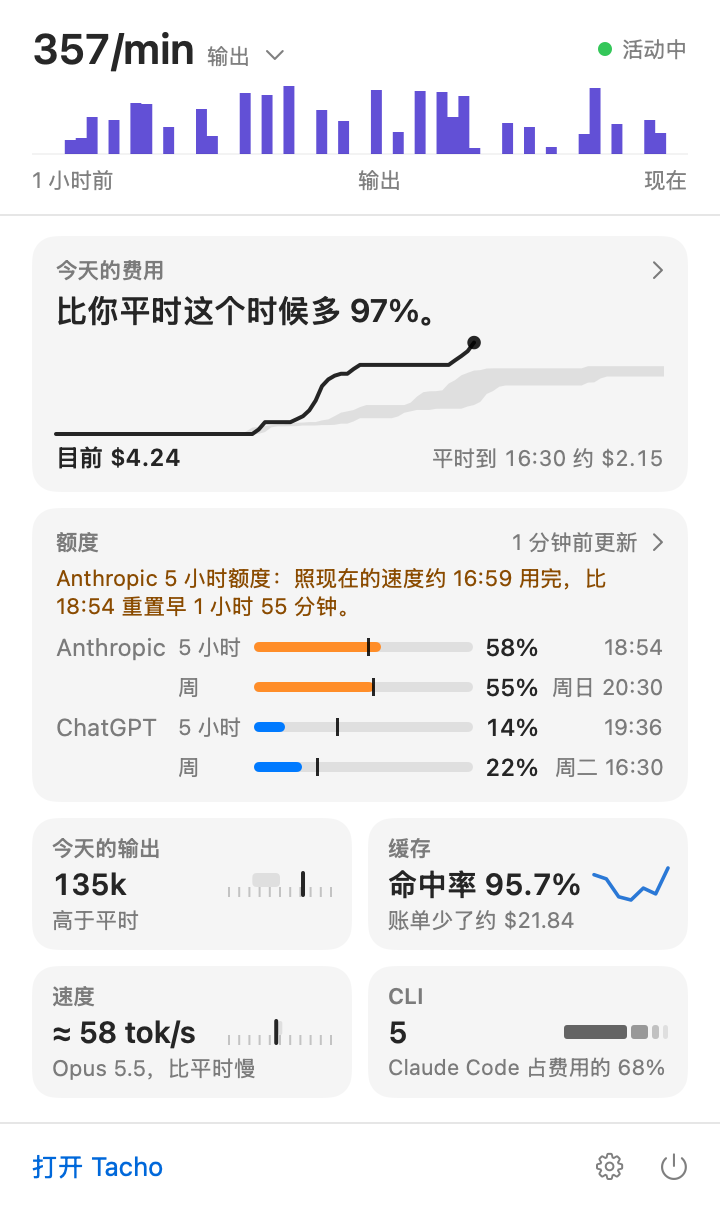
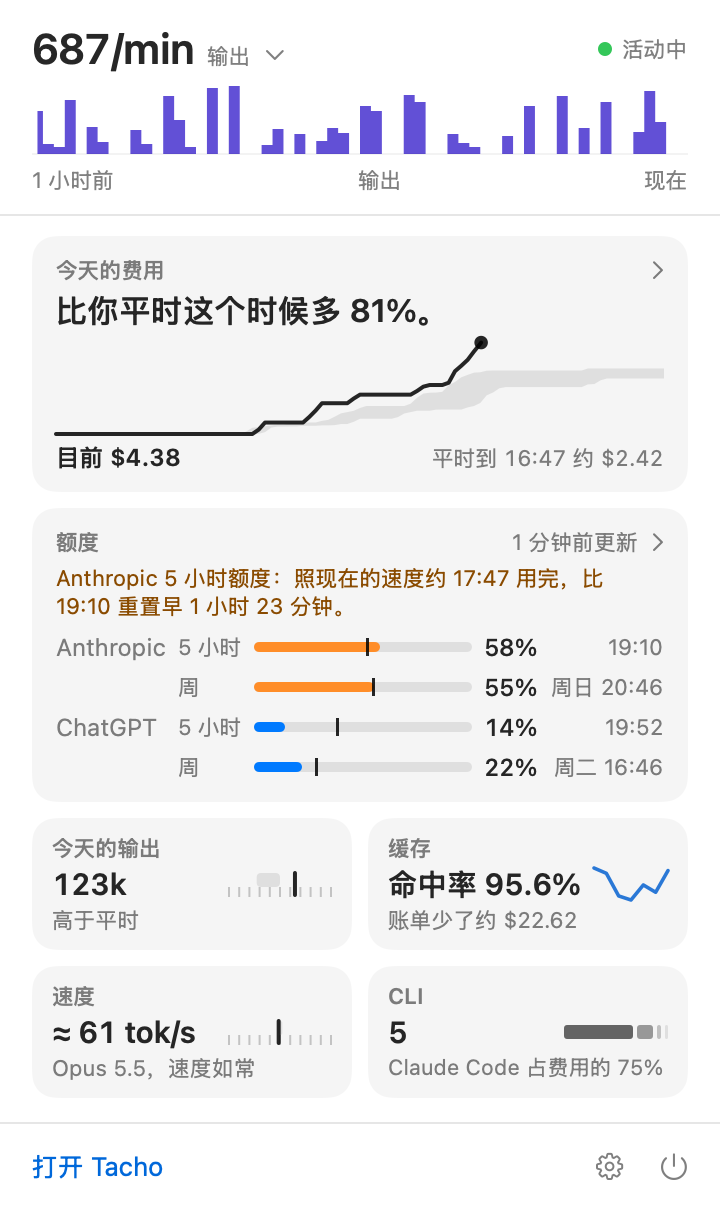
README images on white, for a dark theme

diff --git a/Tests/TachoTests/ReadmeScreenshots.swift b/Tests/TachoTests/ReadmeScreenshots.swift
@@ -276,10 +276,24 @@ final class ReadmeScreenshots: XCTestCase {
         return Double(inked) / Double(max(sampled, 1))
     }
 
+    /// `image` on white with no alpha. The panel draws on a see-through material, and a README in a dark theme would show black behind its dark text.
+    private func onWhite(_ image: NSBitmapImageRep) throws -> NSBitmapImageRep {
+        let source = try XCTUnwrap(image.cgImage)
+        let context = try XCTUnwrap(CGContext(
+            data: nil, width: source.width, height: source.height, bitsPerComponent: 8, bytesPerRow: 0,
+            space: try XCTUnwrap(source.colorSpace), bitmapInfo: CGImageAlphaInfo.noneSkipLast.rawValue
+        ))
+        let area = CGRect(x: 0, y: 0, width: source.width, height: source.height)
+        context.setFillColor(CGColor.white)
+        context.fill(area)
+        context.draw(source, in: area)
+        return NSBitmapImageRep(cgImage: try XCTUnwrap(context.makeImage()))
+    }
+
     /// Throws rather than asserts: a blank page must not replace a good one.
     private func write(_ image: NSBitmapImageRep, to url: URL) throws {
         guard ink(image) > Self.leastInk else { throw BlankPage(file: url.lastPathComponent) }
-        try XCTUnwrap(image.representation(using: .png, properties: [:])).write(to: url)
+        try XCTUnwrap(try onWhite(image).representation(using: .png, properties: [:])).write(to: url)
     }
 
     /// As the app builds it, but with no saved frame: that would go in the shared defaults of whatever runs the tests.
